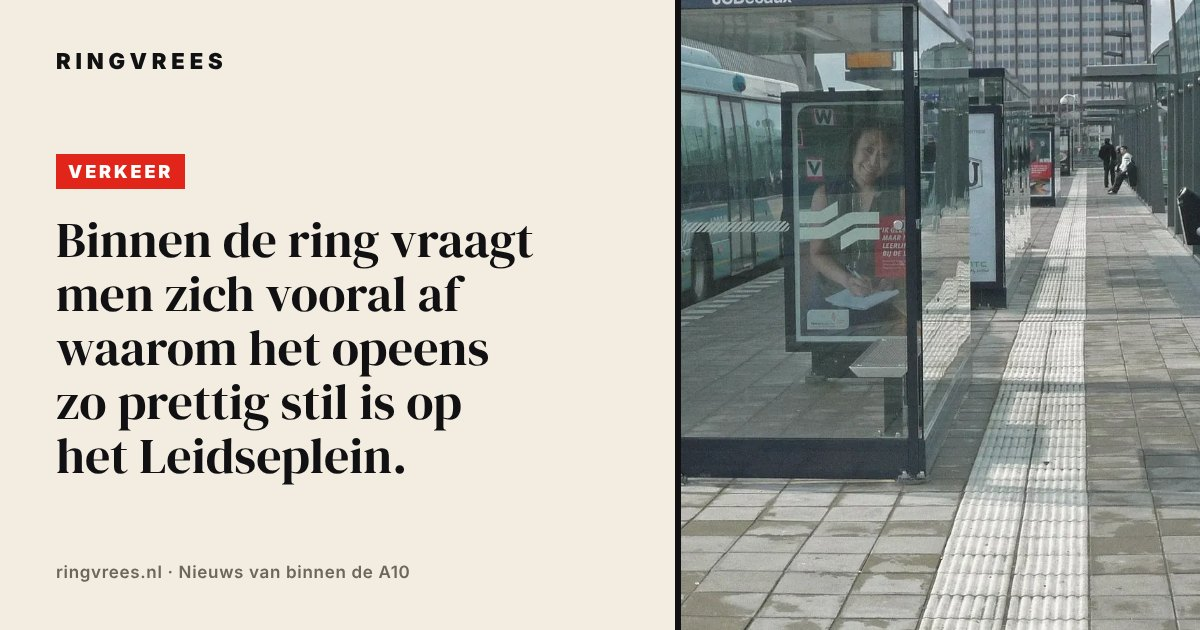
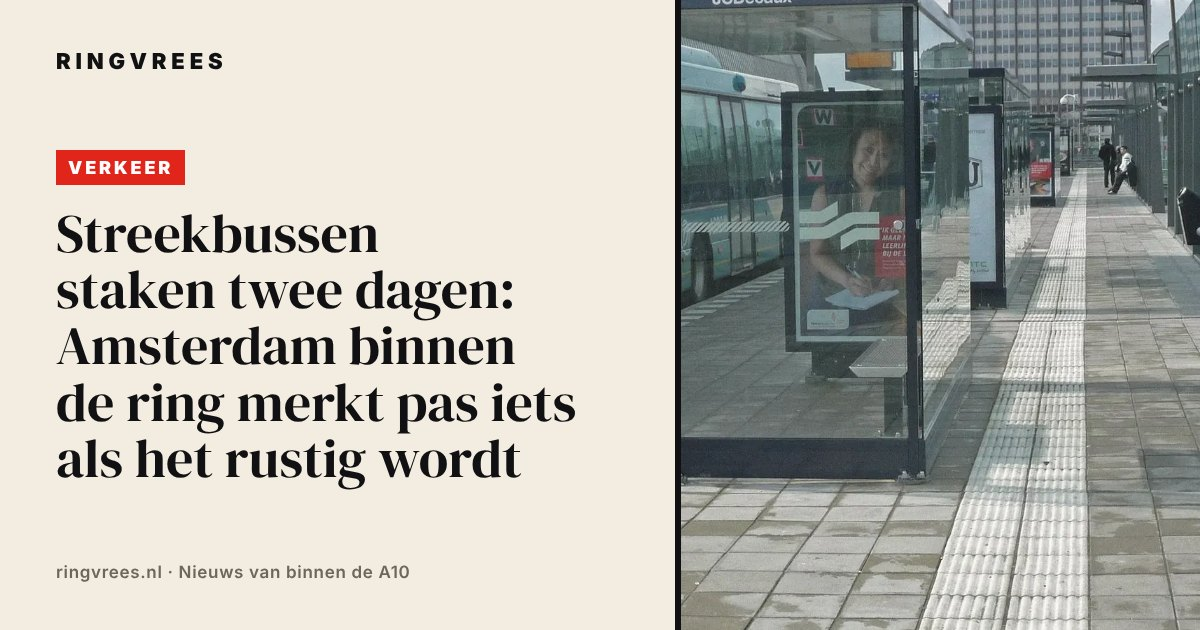
Deelbeeld weer met de titel; WhatsApp-knop blijft alleen de link
Claude-Session: https://claude.ai/code/session_01XixuwK7xXvepxSh3MdZ2WF

Changed region(s): [[0.0308, 0.3317, 0.4933, 0.7841], [0.0308, 0.2111, 0.1542, 0.3016]]

diff --git a/_bron/deel.py b/_bron/deel.py
@@ -9,11 +9,6 @@ def _html(a):
     v = ROOT / "img" / "artikelen" / "v" / f"{a['slug']}-1600.webp"
     foto = v if v.exists() else ROOT / a["beeld"].lstrip("/")
     e = html.escape
-    import re
-    zinnen = [z.strip() for z in re.split(r"(?<=[.!?])\s+", a.get("lede", "").strip()) if z.strip()]
-    zin = a.get("deelzin") or (zinnen[-1] if zinnen else a["titel"])
-    if len(zin) > 170 or len(zin) < 25:
-        zin = a["titel"]
     passend = "" if a.get("beeld_bron", "").startswith("Foto") else ";object-fit:contain;transform:scale(1.3);transform-origin:60% 50%;background:#F2ECE1"
     return f"""<html><head><meta charset=utf-8><style>
 @font-face{{font-family:DMS;src:url({(F/'dm-serif-display-latin-400-normal.woff2').as_uri()})}}
@@ -25,11 +20,11 @@ def _html(a):
 .paneel::after{{content:"";position:absolute;right:-1px;top:0;bottom:0;width:6px;background:#111012}}
 .logo{{font:900 22px Int;letter-spacing:.22em}}
 .kick{{display:inline-block;background:#E1251B;color:#fff;font:900 18px Int;letter-spacing:.16em;padding:7px 12px;text-transform:uppercase}}
-h1{{font:400 50px/1.08 DMS;text-wrap:balance;margin-top:24px}}.voet{{font:600 17px Int;color:#6d665c;letter-spacing:.04em}}
+h1{{font:400 54px/1.04 DMS;text-wrap:balance;margin-top:20px}}.voet{{font:600 17px Int;color:#6d665c;letter-spacing:.04em}}
 </style></head><body><img class=foto style="{passend}" src="{foto.as_uri()}"><div class=paneel><div class=logo>RINGVREES</div>
-<div id=midden><span class=kick>{e(a['rubriek'])}</span><h1 id=kop>{e(zin)}</h1></div>
+<div id=midden><span class=kick>{e(a['rubriek'])}</span><h1 id=kop>{e(a['titel'])}</h1></div>
 <div class=voet>ringvrees.nl · Nieuws van binnen de A10</div></div>
-<script>var k=document.getElementById('kop'),s=50;document.fonts.ready.then(function(){{while(k.offsetHeight>340&&s>32){{s-=2;k.style.fontSize=s+'px'}}document.body.dataset.klaar=1}});</script></body></html>"""
+<script>var k=document.getElementById('kop'),s=54;document.fonts.ready.then(function(){{while(k.offsetHeight>330&&s>34){{s-=2;k.style.fontSize=s+'px'}}document.body.dataset.klaar=1}});</script></body></html>"""
 
 def maak_alle(alle):
     UIT.mkdir(parents=True, exist_ok=True)
